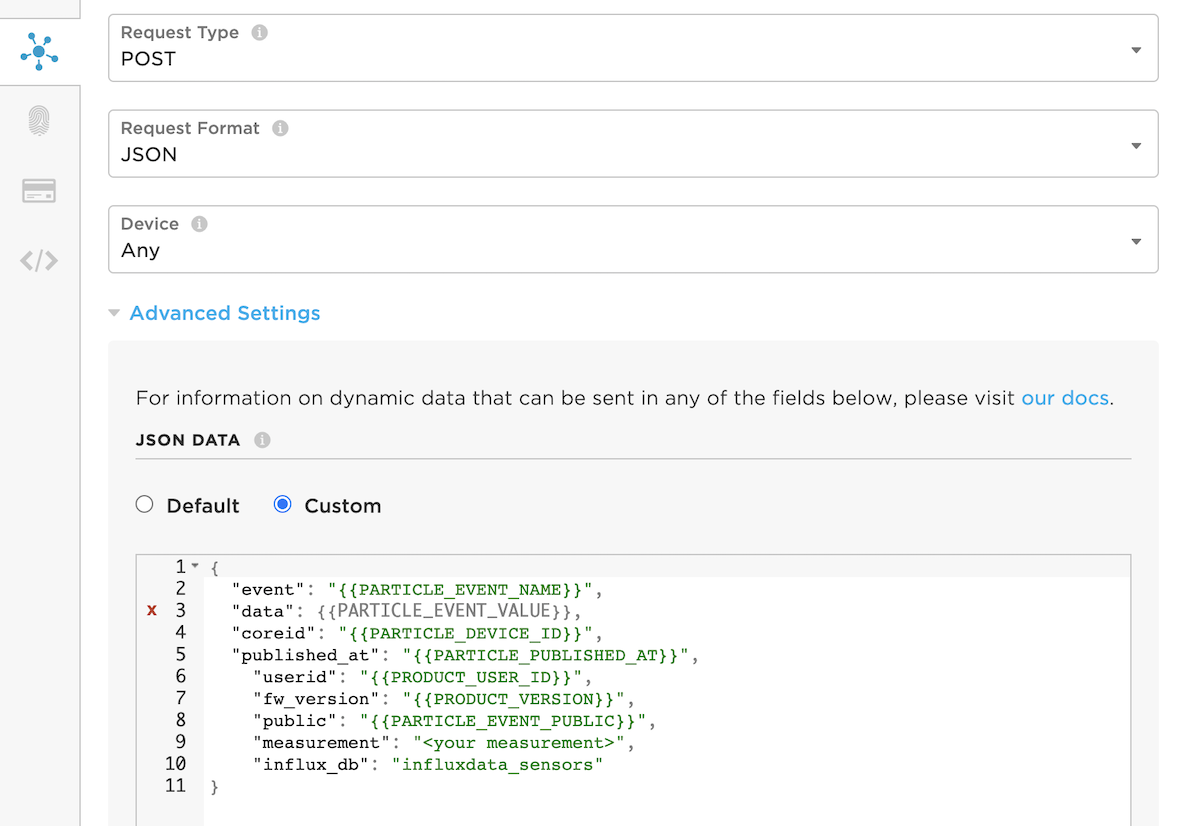
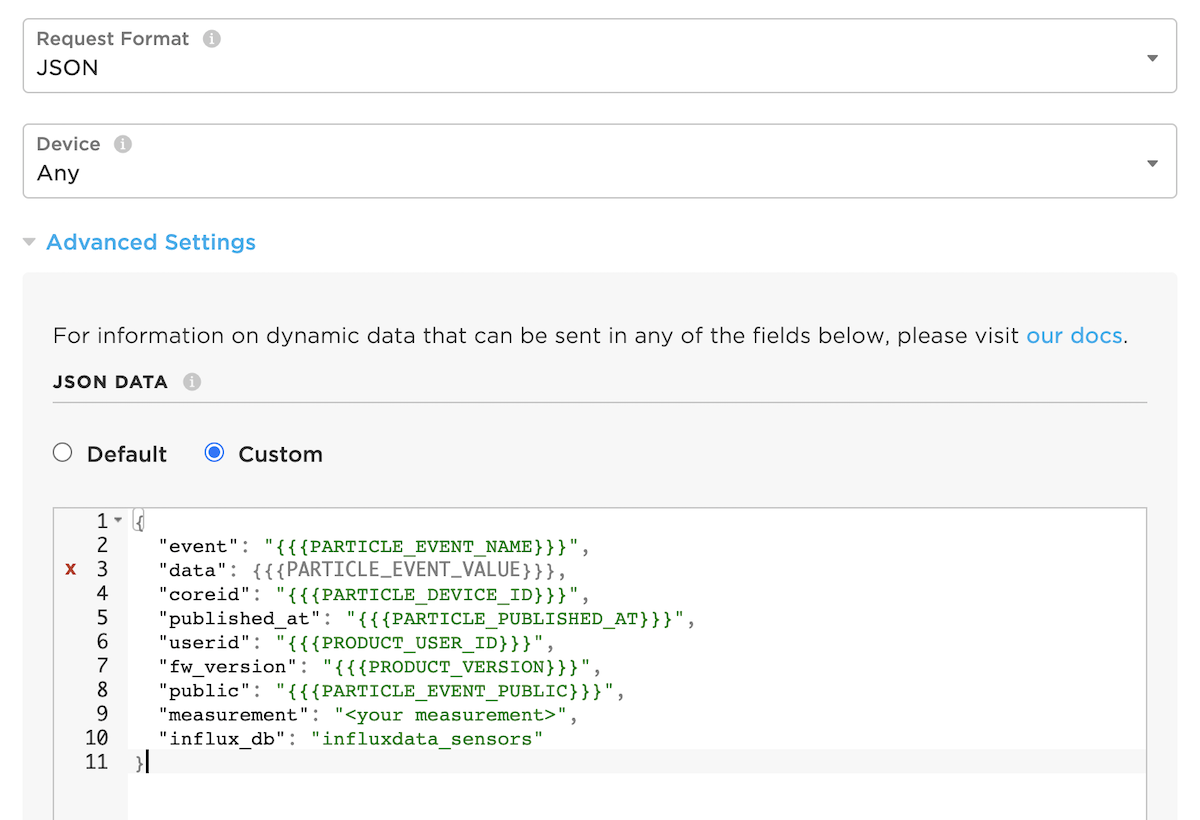
Fix Influx webhook
- Should use triple curly brackets

diff --git a/src/content/tutorials/integrations/influxdata.md b/src/content/tutorials/integrations/influxdata.md
@@ -196,13 +196,13 @@ You'll need to click the `Advanced Settings` area to fill out the custom `JSON` 
 
 ```json
 {
-  "event": "\{{PARTICLE_EVENT_NAME}}",
-  "data": \{{PARTICLE_EVENT_VALUE}},
-  "coreid": "\{{PARTICLE_DEVICE_ID}}",
-  "published_at": "\{{PARTICLE_PUBLISHED_AT}}",
-  "userid": "\{{PRODUCT_USER_ID}}",
-  "fw_version": "\{{PRODUCT_VERSION}}",
-  "public": "\{{PARTICLE_EVENT_PUBLIC}}",
+  "event": "\{{{PARTICLE_EVENT_NAME}}}",
+  "data": \{{{PARTICLE_EVENT_VALUE}}},
+  "coreid": "\{{{PARTICLE_DEVICE_ID}}}",
+  "published_at": "\{{{PARTICLE_PUBLISHED_AT}}}",
+  "userid": "\{{{PRODUCT_USER_ID}}}",
+  "fw_version": "\{{{PRODUCT_VERSION}}}",
+  "public": "\{{{PARTICLE_EVENT_PUBLIC}}}",
   "measurement": "<your measurement>",
   "influx_db": "influxdata_sensors"
 }

diff --git a/src/content/tutorials/asset-tracking/tracker-one-expansion.md b/src/content/tutorials/asset-tracking/tracker-one-expansion.md
@@ -198,7 +198,7 @@ The [AN019 Tracker Prototype to Board](https://github.com/particle-iot/app-notes
 
 ![Thermocouple Board](/assets/images/tracker/thermocouple-board.png)
 
-### 4-20 mA
+### 4-20 mA Current Loop Sensors
 
 These two app notes, [AN020 Tracker 4-20mA Sensor Single](https://github.com/particle-iot/app-notes/tree/master/AN020-Tracker-4-20mA) and [AN021 Tracker 4-20mA Sensor Quad](https://github.com/particle-iot/app-notes/tree/master/AN021-Tracker-4-20mA-Quad) show how to connect a 4-20 mA current loop sensor to the Tracker One M8 port.
 
